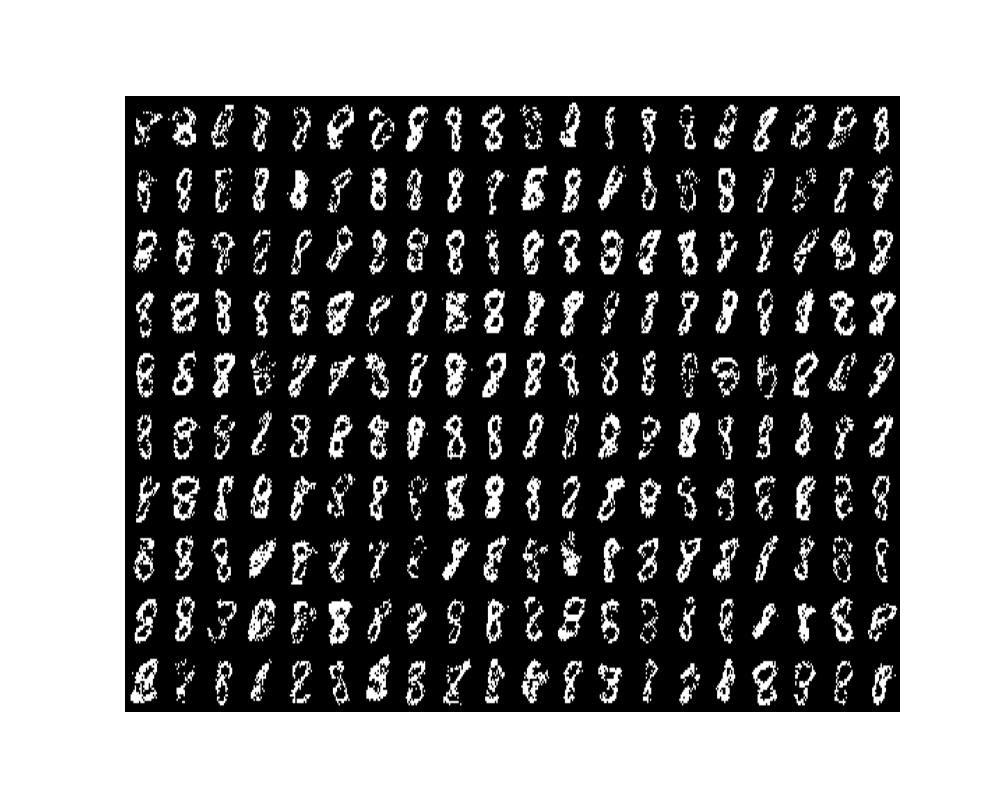
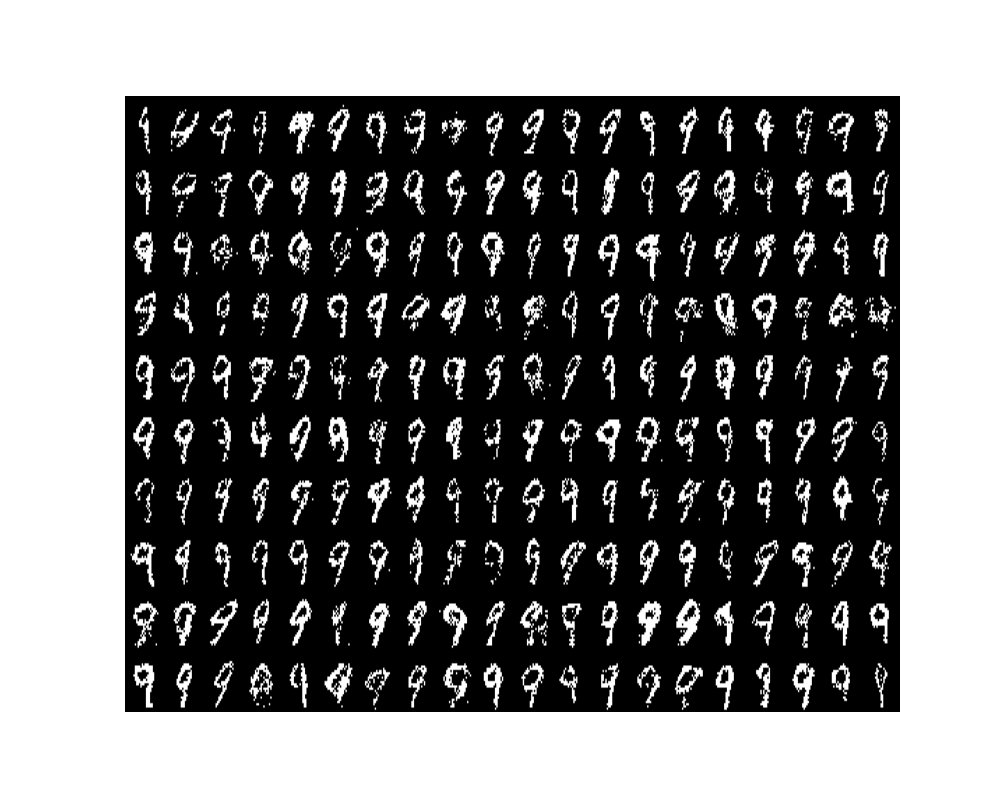
update hw2

Changed region(s): [[0.124, 0.125, 0.899, 0.9062]]

diff --git a/hw2-starter/run_ssvae.py b/hw2-starter/run_ssvae.py
@@ -8,10 +8,11 @@ from codebase.train import train
 from pprint import pprint
 from torchvision import datasets, transforms
 import matplotlib.pyplot as plt
+# import torchsummary
 parser = argparse.ArgumentParser(formatter_class=argparse.ArgumentDefaultsHelpFormatter)
 parser.add_argument('--gw',        type=int, default=1,     help="Weight on the generative terms")
 parser.add_argument('--cw',        type=int, default=100,   help="Weight on the class term")
-parser.add_argument('--iter_max',  type=int, default=30000, help="Number of training iterations")
+parser.add_argument('--iter_max',  type=int, default=50000, help="Number of training iterations")
 parser.add_argument('--iter_save', type=int, default=10000, help="Save model every n iterations")
 parser.add_argument('--run',       type=int, default=0,     help="Run ID. In case you want to run replicates")
 parser.add_argument('--train',     type=int, default=1,     help="Flag for training")
@@ -31,9 +32,11 @@ train_loader, labeled_subset, test_set = ut.get_mnist_data(device, use_test_subs
 ssvae = SSVAE(gen_weight=args.gw,
               class_weight=args.cw,
               name=model_name).to(device)
-
-if args.train:
-    writer = ut.prepare_writer(model_name, overwrite_existing=True)
+total_params = sum(p.numel() for p in ssvae.parameters())
+print("Total number of parameters: ", total_params)
+if args.train :
+    writer = ut.prepare_writer(model_name, overwrite_existing=False)
+    # ut.load_model_by_name(ssvae,40000)
     train(model=ssvae,
           train_loader=train_loader,
           labeled_subset=labeled_subset,
@@ -45,21 +48,24 @@ if args.train:
           iter_save=args.iter_save)
 
 else:
-    ut.load_model_by_name(ssvae, args.iter_max)
-    # z = ssvae.sample_z(batch=200)#(200,64)
-    # y = torch.tensor([0,0,0,0,0,0,0,0,1,0])
-    # y = ut.duplicate(y,200).reshape(200,-1)
-    # x_samples = ssvae.sample_x_given(z,y)
-    # np_x_samples = x_samples.detach().cpu().numpy().reshape(-1, 28, 28)
+    ut.load_model_by_name(ssvae, 50000)
+    z = ssvae.sample_z(batch=200)#(200,64)
+    digits = [int(i) for i in (input("Enter the digit(s) you want to generate: (insert more than 1 to generate mixed version of those digts :D):").split())]
+    y = torch.zeros(10)
+    for digit in digits:
+        y[digit] = 1
+    y = ut.duplicate(y,200).reshape(200,-1)
+    x_samples = ssvae.sample_x_given(z,y)
+    np_x_samples = x_samples.detach().cpu().numpy().reshape(-1, 28, 28)
 
-    # # Create a grid of 10x20
-    # fig, axs = plt.subplots(10, 20, figsize=(10, 8))
-    # fig.subplots_adjust(hspace = 0, wspace = 0)
-    # for ax in axs.ravel():
-    #     ax.axis('off')
-    # for i, ax in enumerate(axs.ravel()):
-    #     ax.imshow(np_x_samples[i], cmap='gray',aspect='auto')
-    # plt.savefig("visualize_200_digit_ssvae.png")
-    # plt.show()
-
-ut.evaluate_classifier(ssvae, test_set)
+    # Create a grid of 10x20
+    fig, axs = plt.subplots(10, 20, figsize=(10, 8))
+    fig.subplots_adjust(hspace = 0, wspace = 0)
+    for ax in axs.ravel():
+        ax.axis('off')
+    for i, ax in enumerate(axs.ravel()):
+        ax.imshow(np_x_samples[i], cmap='gray',aspect='auto')
+    plt.savefig(f"visualize_200_digit_ssvae_{digits}.png")
+    plt.show()
+# ut.load_model_by_name(ssvae,50000)
+# ut.evaluate_classifier(ssvae, test_set)

diff --git a/hw2-starter/run_fsvae.py b/hw2-starter/run_fsvae.py
@@ -7,9 +7,9 @@ from codebase.models.fsvae import FSVAE
 from codebase.train import train
 from pprint import pprint
 from torchvision import datasets, transforms
-
+import matplotlib.pyplot as plt
 parser = argparse.ArgumentParser(formatter_class=argparse.ArgumentDefaultsHelpFormatter)
-parser.add_argument('--iter_max',  type=int, default=1000000, help="Number of training iterations")
+parser.add_argument('--iter_max',  type=int, default=990000, help="Number of training iterations")
 parser.add_argument('--iter_save', type=int, default=10000,   help="Save model every n iterations")
 parser.add_argument('--run',       type=int, default=0,       help="Run ID. In case you want to run replicates")
 args = parser.parse_args()
@@ -22,16 +22,40 @@ pprint(vars(args))
 print('Model name:', model_name)
 
 device = torch.device('cuda' if torch.cuda.is_available() else 'cpu')
-train_loader, labeled_subset, test_set = ut.get_svhn_data(device)
+# train_loader, labeled_subset, test_set = ut.get_svhn_data(device)
 fsvae = FSVAE(name=model_name).to(device)
-writer = ut.prepare_writer(model_name, overwrite_existing=True)
+# writer = ut.prepare_writer(model_name, overwrite_existing=False)
 
-train(model=fsvae,
-      train_loader=train_loader,
-      labeled_subset=labeled_subset,
-      device=device,
-      y_status='fullsup',
-      tqdm=tqdm.tqdm,
-      writer=writer,
-      iter_max=args.iter_max,
-      iter_save=args.iter_save)
+# train(model=fsvae,
+#       train_loader=train_loader,
+#       labeled_subset=labeled_subset,
+#       device=device,
+#       y_status='fullsup',
+#       tqdm=tqdm.tqdm,
+#       writer=writer,
+#       iter_max=args.iter_max,
+#       iter_save=args.iter_save)
+ut.load_model_by_name(fsvae, args.iter_max)
+BATCH = 100
+z = fsvae.sample_z(batch=BATCH)# (BATCH,10)
+
+# digits = [int(i) for i in (input("Enter the digit(s) you want to generate: (insert more than 1 to generate mixed version of those digts :D):").split())]
+digit = int(input("Enter your digit : "))
+y = torch.zeros(10)
+# for digit in digits:
+y[digit] = 1
+y = ut.duplicate(y,BATCH).reshape(BATCH,-1)#(BATCH,10)
+x_mean = fsvae.compute_mean_given(z,y) #(BATCH,3072)
+x_mean = torch.clip(x_mean,0,1)
+# x_samples = ut.sample_gaussian(x_mean,0.1*torch.ones_like(x_mean))
+np_x_samples = x_mean.detach().cpu().numpy().reshape(-1, 32, 32)
+
+# Create a grid of 10x10
+fig, axs = plt.subplots(10, 10, figsize=(9,9))
+fig.subplots_adjust(hspace = 0, wspace = 0)
+for ax in axs.ravel():
+    ax.axis('off')
+for i, ax in enumerate(axs.ravel()):
+    ax.imshow(np_x_samples[i], cmap='gray',aspect='auto')
+plt.savefig(f"visualize_BATCH_digit_fsvae_{digit}.png")
+plt.show()

diff --git a/hw2-starter/codebase/models/fsvae.py b/hw2-starter/codebase/models/fsvae.py
@@ -35,7 +35,14 @@ class FSVAE(nn.Module):
         #
         # Outputs should all be scalar
         ################################################################################
-
+        #x:(100,3072), y:(100,10)
+        m,v = self.enc.encode(x,y)#(100,10)
+        z = ut.sample_gaussian(m,v)# (z|y,x) #(100,10)
+        x_mean = self.dec.decode(z,y) # only decode x_mean , the variance set default to 0.1 (100,3072)
+        kl_z = ut.kl_normal(m,v,self.z_prior_m,self.z_prior_v)# KL (100)
+        rec = -ut.log_normal(x,x_mean,0.1*torch.ones_like(x_mean)) # đã chọn z, cho nên chỉ cần tính log_normal (100)
+        nelbo = rec + kl_z
+        nelbo , kl_z,rec = nelbo.mean(),kl_z.mean(),rec.mean()
         ################################################################################
         # End of code modification
         ################################################################################
@@ -60,3 +67,4 @@ class FSVAE(nn.Module):
     def sample_z(self, batch):
         return ut.sample_gaussian(self.z_prior[0].expand(batch, self.z_dim),
                                   self.z_prior[1].expand(batch, self.z_dim))
+    

diff --git a/hw2-starter/run_vae.py b/hw2-starter/run_vae.py
@@ -42,17 +42,17 @@ if args.train:
 
 else:
     ut.load_model_by_name(vae, global_step=args.iter_max)
-    # x_samples = vae.sample_x(200)
-    # np_x_samples = x_samples.detach().cpu().numpy().reshape(-1, 28, 28)
+    x_samples = vae.sample_x(200)
+    np_x_samples = x_samples.detach().cpu().numpy().reshape(-1, 28, 28)
 
-    # # Create a grid of 10x20
-    # fig, axs = plt.subplots(10, 20, figsize=(10, 8))
-    # fig.subplots_adjust(hspace = 0, wspace = 0)
-    # for ax in axs.ravel():
-    #     ax.axis('off')
-    # for i, ax in enumerate(axs.ravel()):
-    #     ax.imshow(np_x_samples[i], cmap='gray',aspect='auto')
+    # Create a grid of 10x20
+    fig, axs = plt.subplots(10, 20, figsize=(10, 8))
+    fig.subplots_adjust(hspace = 0, wspace = 0)
+    for ax in axs.ravel():
+        ax.axis('off')
+    for i, ax in enumerate(axs.ravel()):
+        ax.imshow(np_x_samples[i], cmap='gray',aspect='auto')
     # plt.savefig("visualize_200_digit_vae.png")
-    # plt.show()
+    plt.show()
 
-    ut.evaluate_lower_bound(vae, labeled_subset, run_iwae=True)
+    # ut.evaluate_lower_bound(vae, labeled_subset, run_iwae=True)

diff --git a/hw2-starter/codebase/models/ssvae.py b/hw2-starter/codebase/models/ssvae.py
@@ -23,6 +23,7 @@ class SSVAE(nn.Module):
         self.cls = nn.Classifier(self.y_dim)
 
         # Set prior as fixed parameter attached to Module
+        # z : Normal(0,I)
         self.z_prior_m = torch.nn.Parameter(torch.zeros(1), requires_grad=False)
         self.z_prior_v = torch.nn.Parameter(torch.ones(1), requires_grad=False)
         self.z_prior = (self.z_prior_m, self.z_prior_v)
@@ -63,7 +64,7 @@ class SSVAE(nn.Module):
         kl_y = ut.kl_cat(q=y_prob ,log_q=y_logprob,log_p= np.log(1/self.y_dim)) #(100,)
 
         m , v = self.enc.encode(x,y) #(1000,64) , (1000,64)
-        z = ut.sample_gaussian(m,v) #(1000,64)
+        z = ut.sample_gaussian(m,v) #(1000,64) # p(z|y,x)
         x_logits = self.dec.decode(z,y)#(1000,784)
 
         kl_z = ut.kl_normal(m,v,self.z_prior_m,self.z_prior_v) #(1000,)
